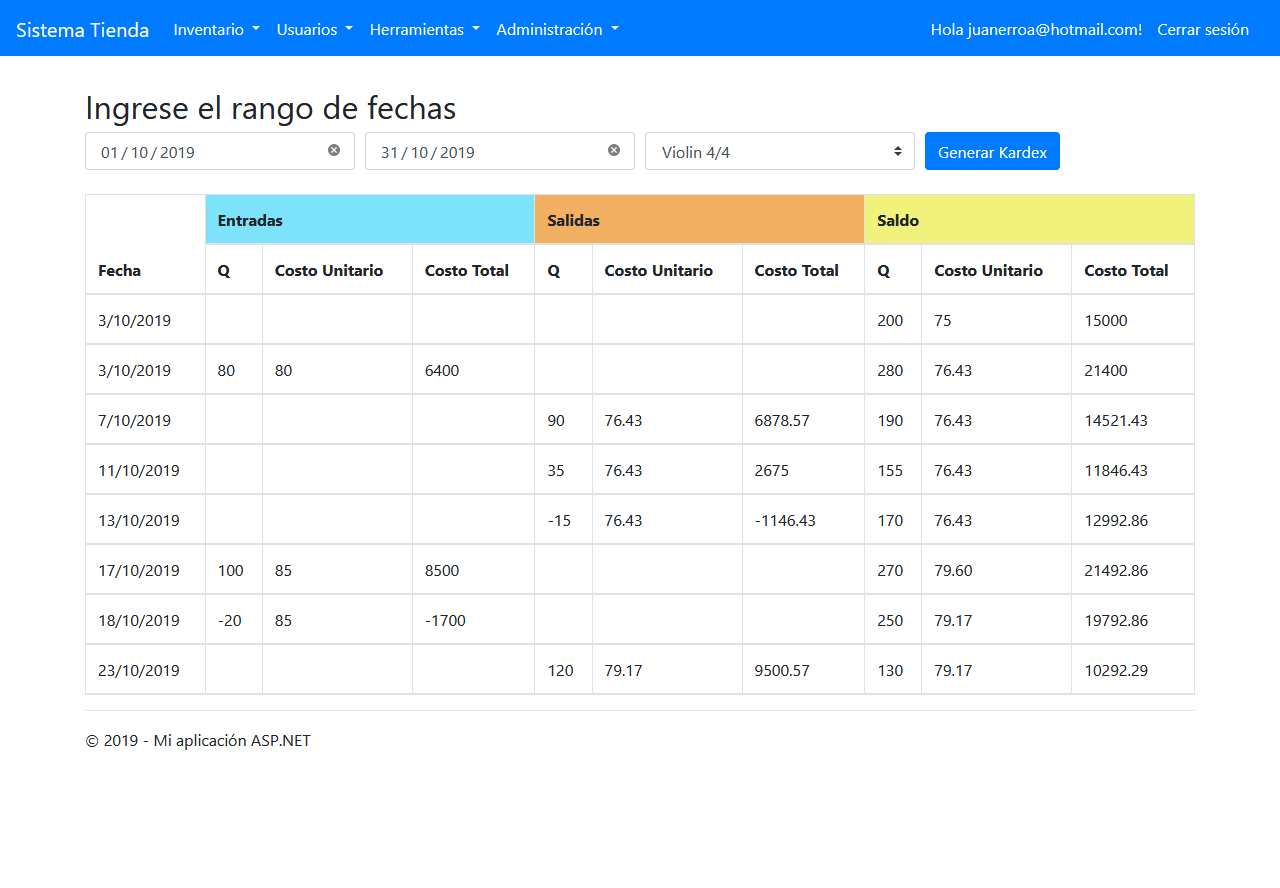
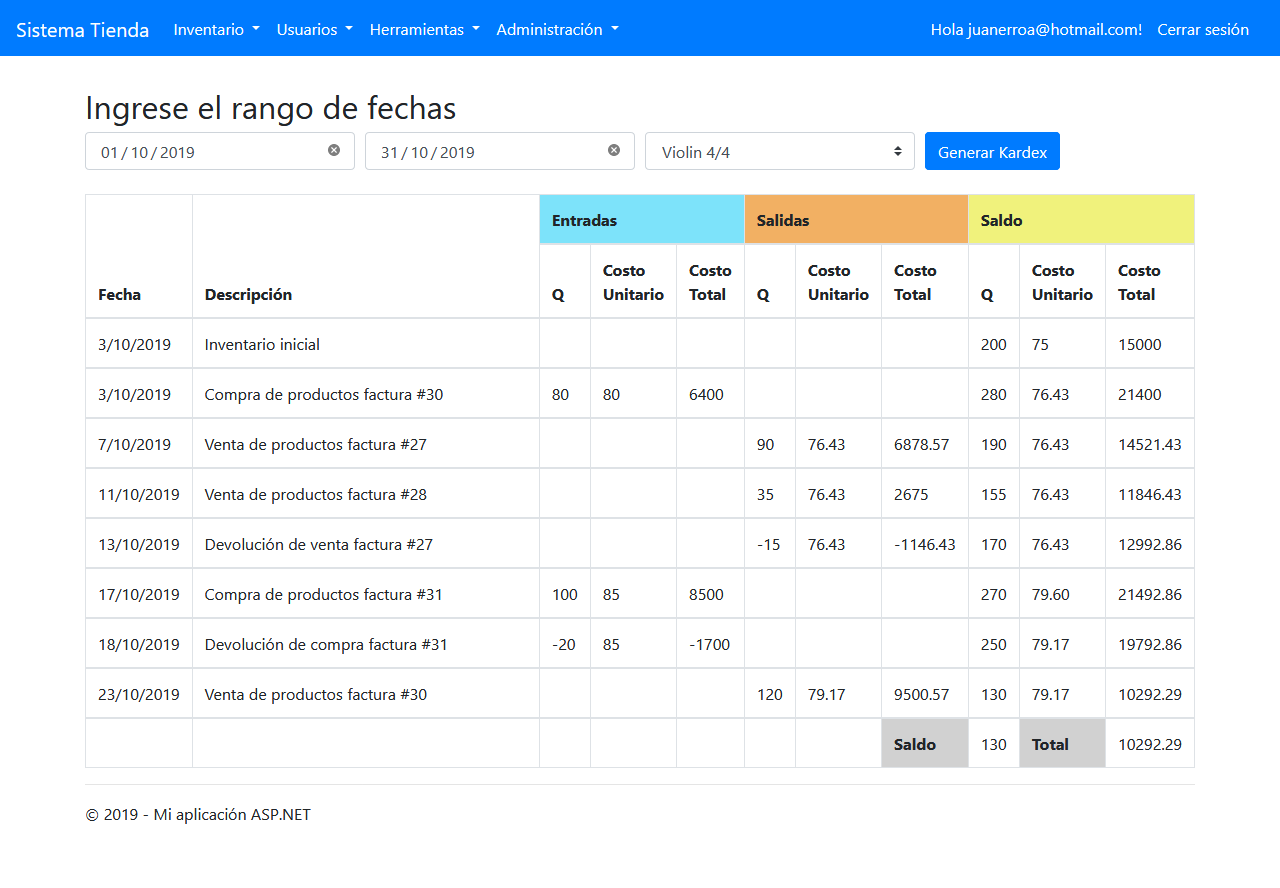
Kardex Finalizado

Changed region(s): [[0.0625, 0.2128, 0.9375, 0.8818], [0.0625, 0.9122, 0.25, 0.9426]]

diff --git a/SistemaTienda/SistemaTienda/Content/kardex.css b/SistemaTienda/SistemaTienda/Content/kardex.css
@@ -1,0 +1,3 @@
+.bg-grey {
+    background-color: #d1d1d1;
+}

diff --git a/SistemaTienda/SistemaTienda/Controllers/KardexController.cs b/SistemaTienda/SistemaTienda/Controllers/KardexController.cs
@@ -38,6 +38,7 @@ namespace SistemaTienda.Controllers
                 kardexRows = new List<KardexRow>();
                 KardexRow inventario_inicial = new KardexRow();
                 inventario_inicial.fecha = filteredData.FirstOrDefault().fecha;
+                inventario_inicial.descripcion = "Inventario inicial";
                 inventario_inicial.saldo_Q = filteredData.FirstOrDefault().cantidad_inicial;
                 inventario_inicial.saldo_cu = filteredData.FirstOrDefault().tblProducto.precio;
                 inventario_inicial.saldo_ct = filteredData.FirstOrDefault().tblProducto.precio * filteredData.FirstOrDefault().cantidad_inicial;
@@ -54,6 +55,7 @@ namespace SistemaTienda.Controllers
                 {
                     ViewBag.tbody += "<tr>";
                     ViewBag.tbody += "<td>"+trans.fecha.Value.ToShortDateString()+"</td>";
+                    ViewBag.tbody += "<td>" + trans.descripcion + "</td>";
                     ViewBag.tbody += "<td>"+trans.entrada_Q+"</td>";
                     ViewBag.tbody += "<td>"+ string.Format("{0:0.00}", trans.entrada_cu).Replace(".00", "")+ "</td>";
                     ViewBag.tbody += "<td>"+ string.Format("{0:0.00}", trans.entrada_ct).Replace(".00", "") + "</td>";
@@ -64,6 +66,12 @@ namespace SistemaTienda.Controllers
                     ViewBag.tbody += "<td>"+ string.Format("{0:0.00}", trans.saldo_cu).Replace(".00", "") + "</td>";
                     ViewBag.tbody += "<td>"+ string.Format("{0:0.00}", trans.saldo_ct).Replace(".00", "") + "</td>";
                     ViewBag.tbody += "</tr>";
+
+                    if (trans.Equals(kardexRows.Last()))
+                    {
+                        ViewBag.Saldo = trans.saldo_Q;
+                        ViewBag.Total = string.Format("{0:0.00}", trans.saldo_ct).Replace(".00", "");
+                    }
                 }
             }
 
@@ -101,6 +109,8 @@ namespace SistemaTienda.Controllers
                 kr.saldo_Q = previous_kardex.saldo_Q + compra.cantidad_compra;
                 kr.saldo_cu = (previous_kardex.saldo_ct + compra.precio_compra) / kr.saldo_Q; //Formula de Promedio ponderado
                 kr.saldo_ct = kr.saldo_Q * kr.saldo_cu;
+
+                kr.descripcion = "Compra de productos factura #" + kr.id_compra;
             }
             else if(actual_kardex.id_venta != null)
             {
@@ -114,6 +124,8 @@ namespace SistemaTienda.Controllers
                 kr.saldo_Q = previous_kardex.saldo_Q - venta.cantidad_venta;
                 kr.saldo_cu = previous_kardex.saldo_cu;
                 kr.saldo_ct = kr.saldo_Q * kr.saldo_cu;
+
+                kr.descripcion = "Venta de productos factura #" + kr.id_venta;
             }
             else if (actual_kardex.id_devolucion != null)
             {
@@ -129,6 +141,8 @@ namespace SistemaTienda.Controllers
                     kr.saldo_Q = previous_kardex.saldo_Q - kr.salida_Q;
                     kr.saldo_cu = previous_kardex.saldo_cu;
                     kr.saldo_ct = kr.saldo_Q * kr.saldo_cu;
+
+                    kr.descripcion = "Devolución de venta factura #" + devolucion.id_venta;
                 }
                 else if(devolucion.id_compra != null)
                 {
@@ -141,6 +155,8 @@ namespace SistemaTienda.Controllers
                     kr.saldo_Q = previous_kardex.saldo_Q + kr.entrada_Q;
                     kr.saldo_cu = (previous_kardex.saldo_ct + kr.entrada_ct) / kr.saldo_Q;
                     kr.saldo_ct = kr.saldo_Q * kr.saldo_cu;
+
+                    kr.descripcion = "Devolución de compra factura #" + devolucion.id_compra;
                 }
             }
             return kr;

diff --git a/SistemaTienda/SistemaTienda/Models/KardexRow.cs b/SistemaTienda/SistemaTienda/Models/KardexRow.cs
@@ -9,6 +9,8 @@ namespace SistemaTienda.Models
     {
         public DateTime? fecha { get; set; }
 
+        public String descripcion { get; set; }
+
         public int? id_compra { get; set; }
         public int? id_venta { get; set; }
 
